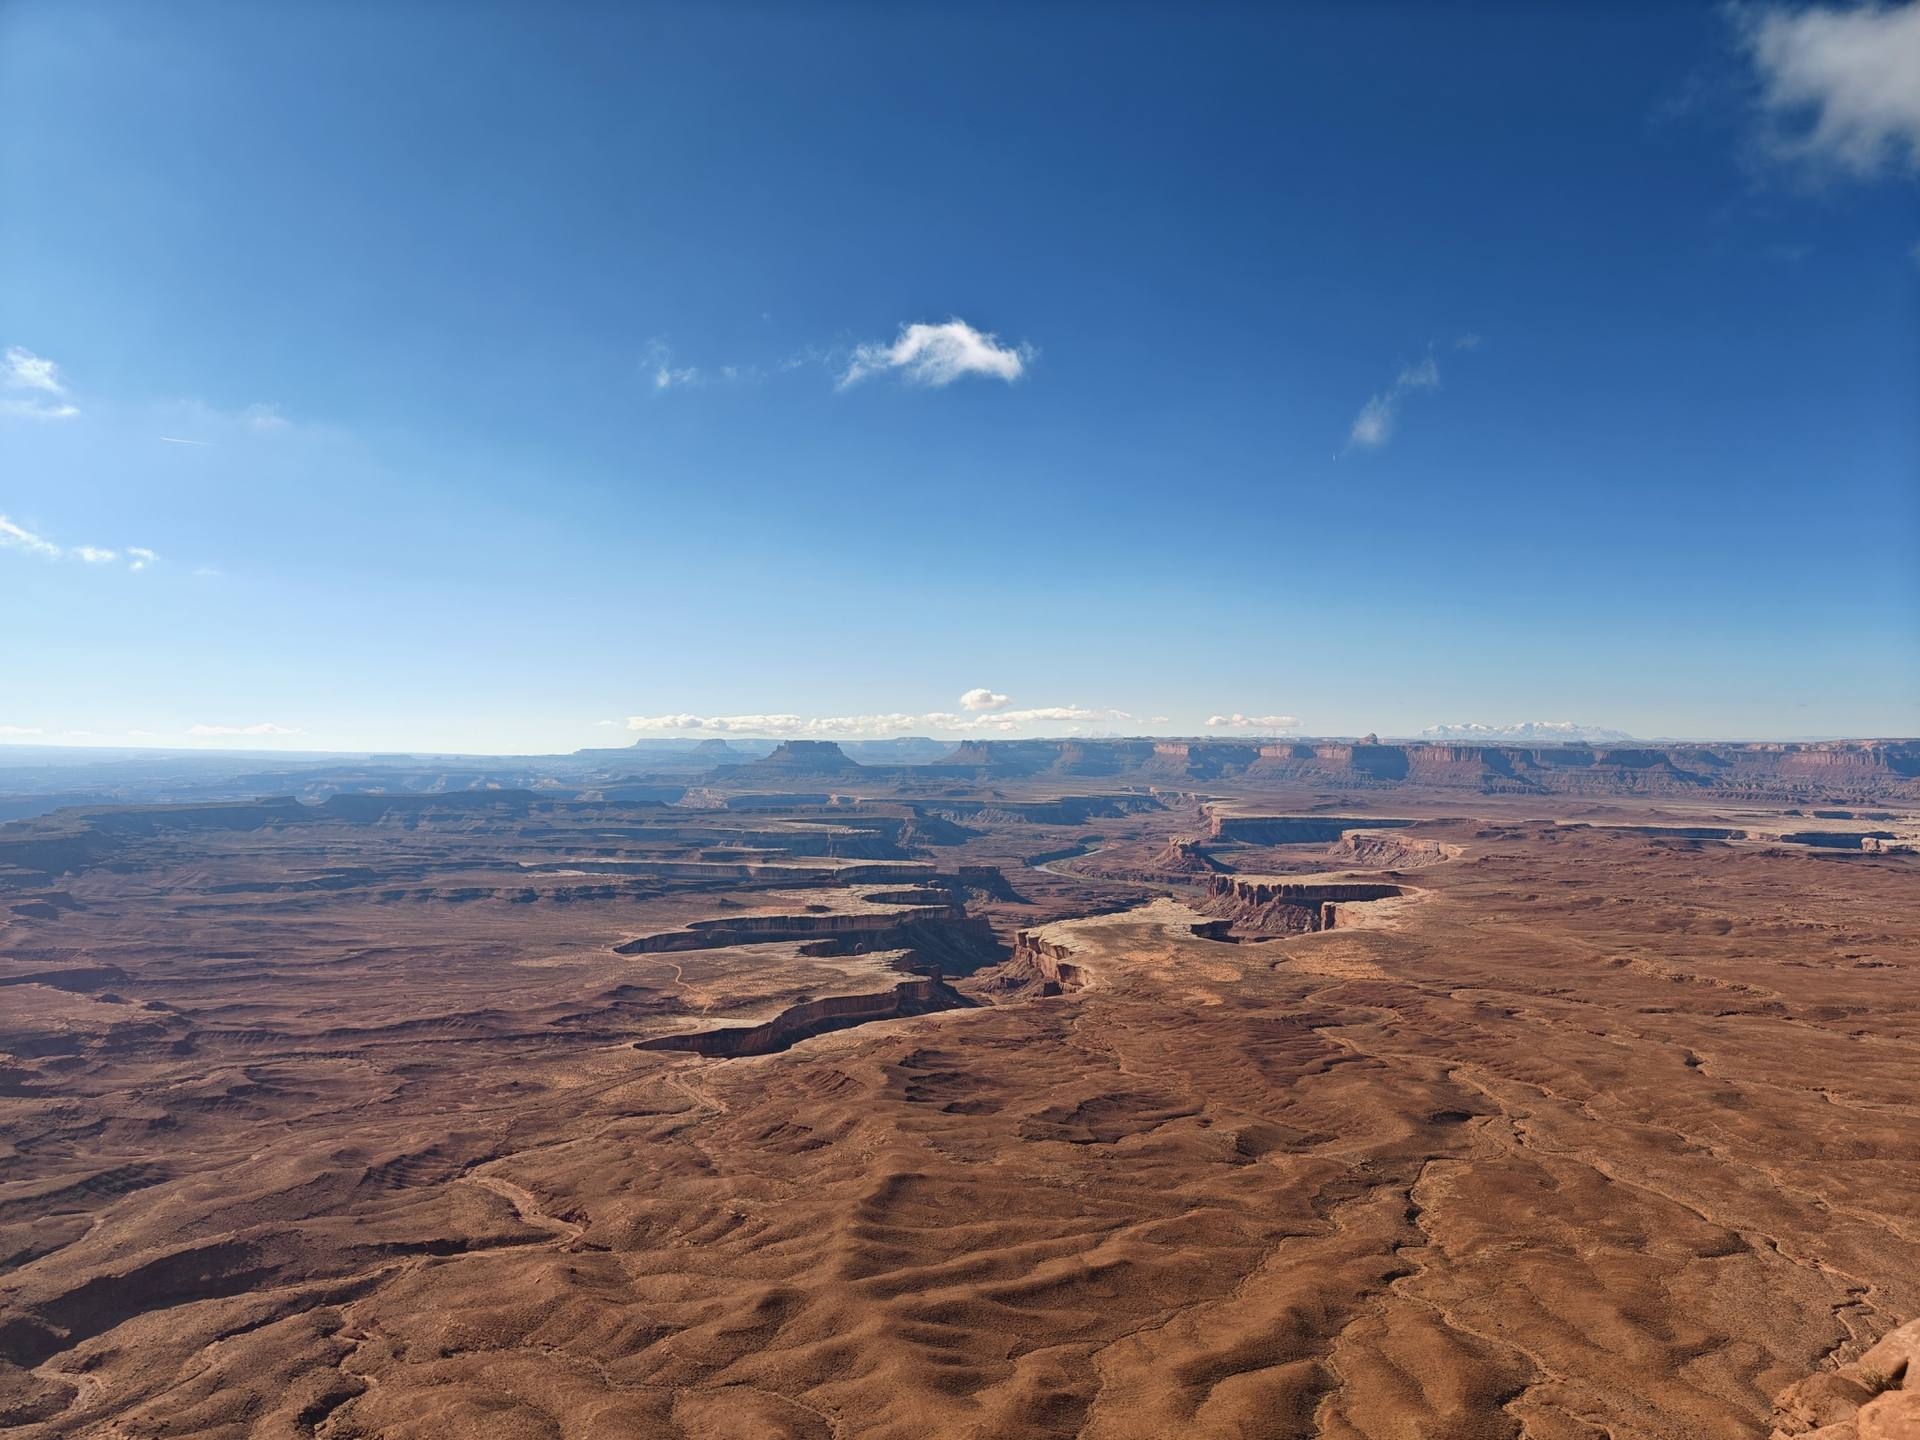
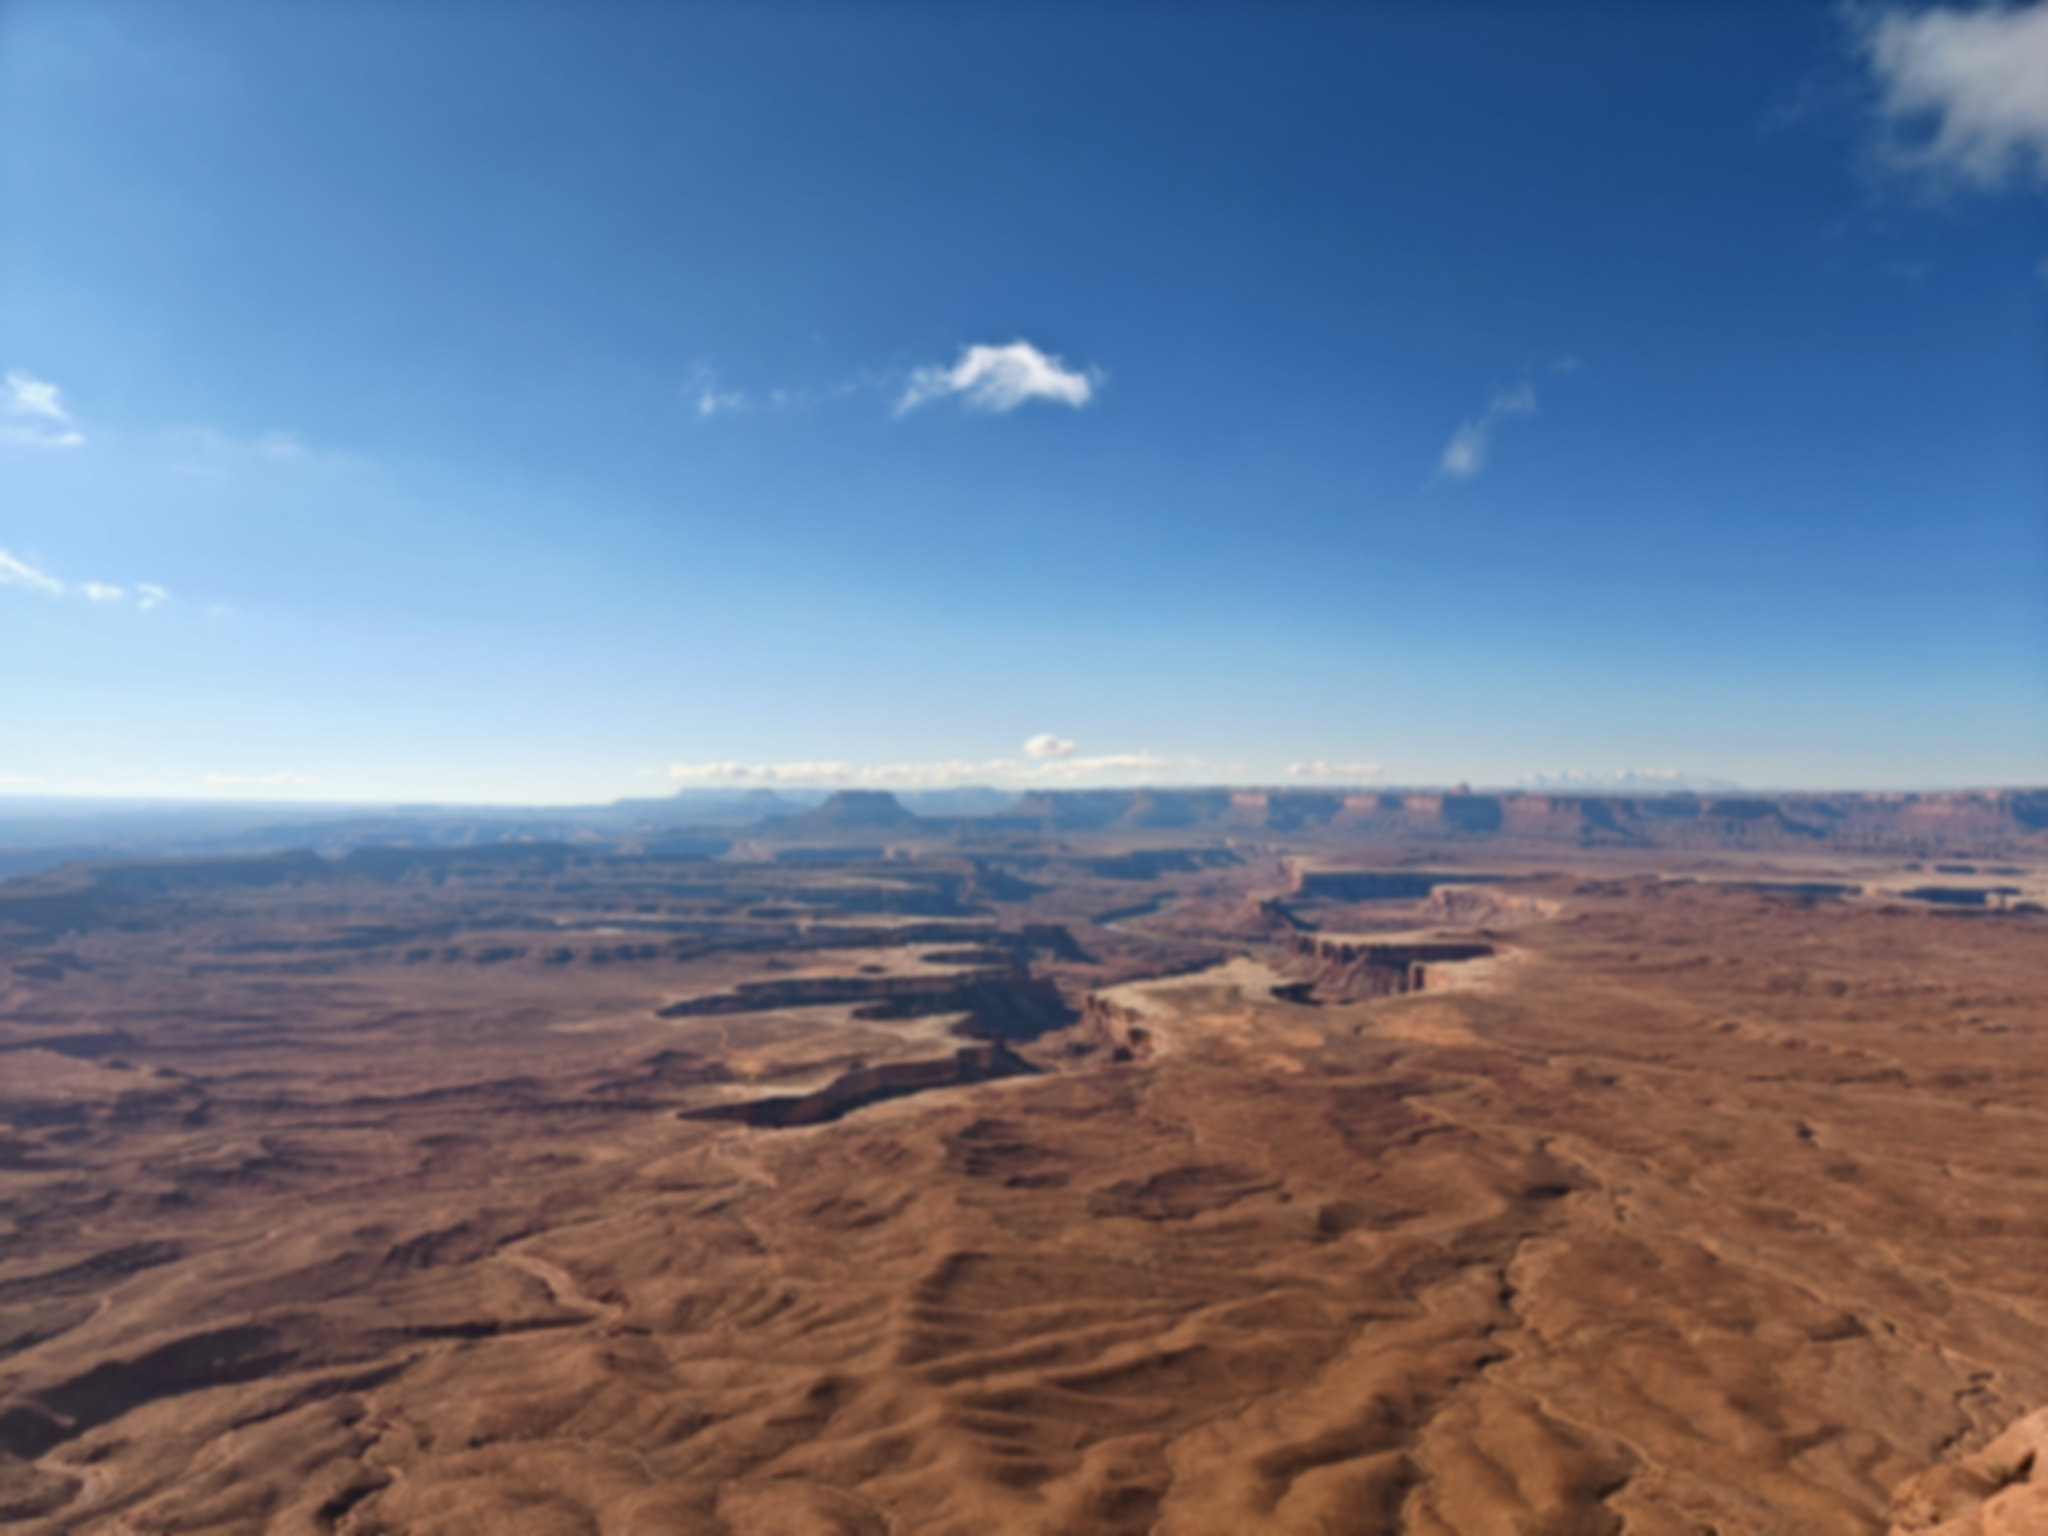
Smooth background photos: bake in soft blur, higher JPEG quality
Re-encodes backgrounds at native resolution with a pre-applied blur
and quality 86 (4:4:4), and drops the CSS blur filter, which browsers
rasterize at reduced resolution and which produced visible grain.

Claude-Session: https://claude.ai/code/session_01TNr3D1dTbuZFgn67jyee5z

diff --git a/public/css/custom.css b/public/css/custom.css
@@ -137,11 +137,11 @@
 }
 .bg-img {
   position: absolute;
-  top: -12px; right: -12px; bottom: -12px; left: -12px;
+  top: 0; right: 0; bottom: 0; left: 0;
   background-size: cover;
   background-position: center;
   opacity: 0;
-  filter: blur(2px);
+  image-rendering: auto;
   transition: opacity 3s ease-in-out;
 }
 .bg-img.visible { opacity: .2; }
